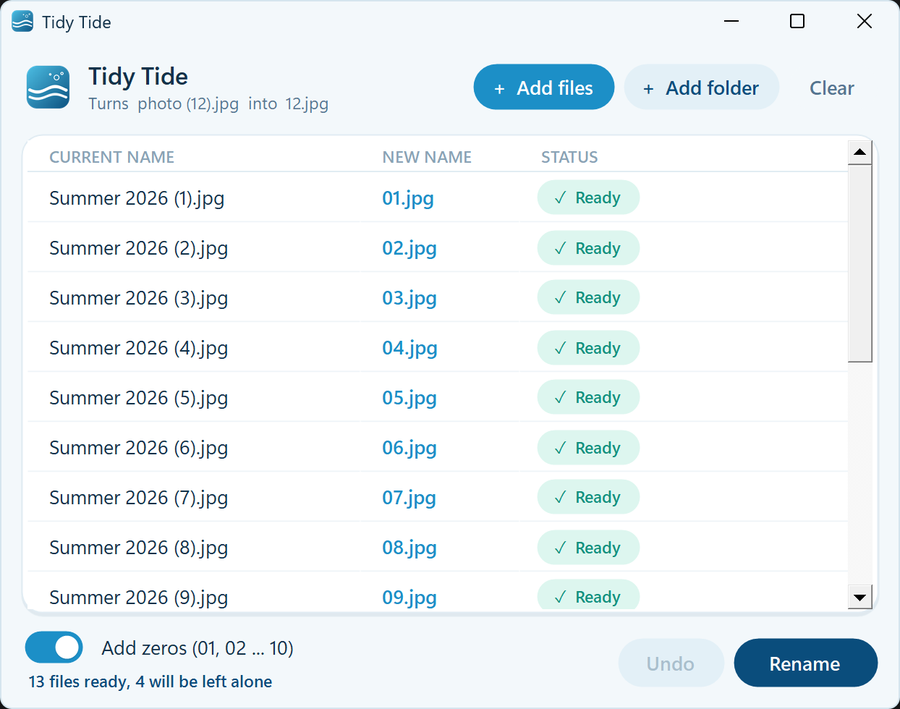
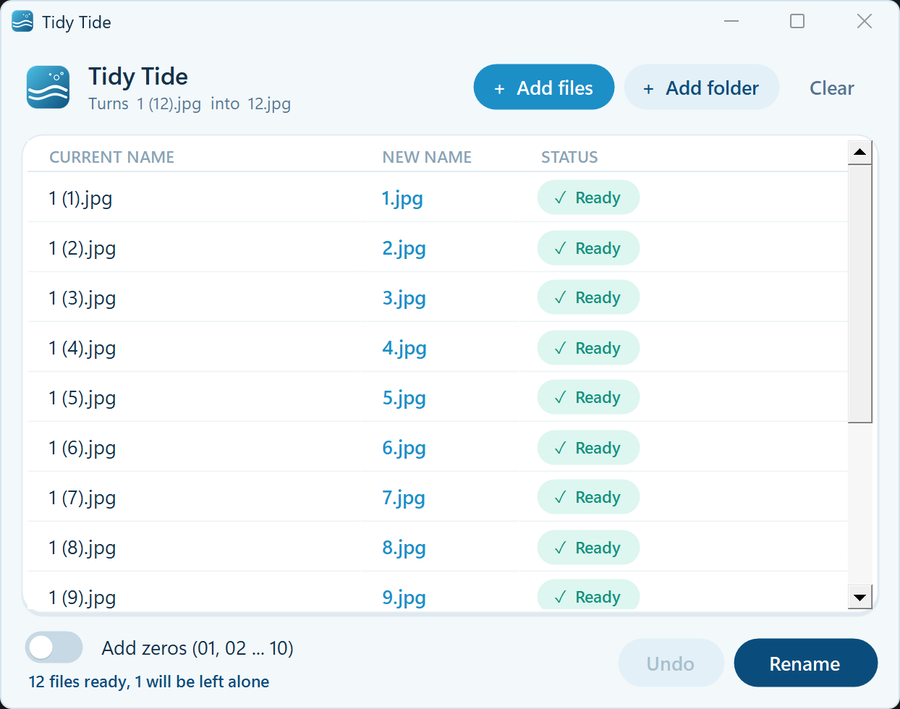
Use the real Windows naming in examples: 1 (1).jpg becomes 1.jpg
When you select photos, press F2 and type 1, Windows names them 1 (1),
1 (2), 1 (3)... The website hero, text and demo, the README, the app
subtitle and the installer now use that example. The app already handled
it correctly (tested: 1 (1)..1 (12).jpg -> 1..12.jpg, Undo restores).
Screenshots retaken.

diff --git a/website/index.html b/website/index.html
@@ -4,9 +4,9 @@
 <meta charset="utf-8">
 <meta name="viewport" content="width=device-width, initial-scale=1">
 <title>Tidy Tide · tidy up (1) (2) (3) file names on Windows</title>
-<meta name="description" content="A small, free Windows app that turns photo (12).jpg into 12.jpg. Preview every change, rename in one click, undo if you need to.">
+<meta name="description" content="A small, free Windows app that turns 1 (1).jpg, 1 (2).jpg, 1 (3).jpg into 1.jpg, 2.jpg, 3.jpg. Preview every change, rename in one click, undo if you need to.">
 <meta property="og:title" content="Tidy Tide">
-<meta property="og:description" content="A small, free Windows app that turns photo (12).jpg into 12.jpg.">
+<meta property="og:description" content="A small, free Windows app that turns 1 (1).jpg, 1 (2).jpg into 1.jpg, 2.jpg.">
 <meta property="og:image" content="icon.png">
 <meta name="theme-color" content="#E9F8FD">
 <link rel="icon" href="favicon.ico" sizes="any">
@@ -247,8 +247,8 @@
 
     <div class="hero-body">
       <span class="badge"><span class="dot"></span>Free for Windows 10 &amp; 11</span>
-      <h1>Turn <span class="chip before">photo&nbsp;(12).jpg</span> into <span class="chip after">12.jpg</span></h1>
-      <p class="lede">A small, friendly app that tidies the (1) (2) (3) names Windows gives your files. Check the preview, rename them all in one click, and undo if you change your mind.</p>
+      <h1>Turn <span class="chip before">1&nbsp;(2).jpg</span> into <span class="chip after">2.jpg</span></h1>
+      <p class="lede">Rename a bunch of photos to <b>1</b> in Windows and you get 1&nbsp;(1), 1&nbsp;(2), 1&nbsp;(3)… This small, friendly app turns them into 1, 2, 3. Check the preview, rename them all in one click, and undo if you change your mind.</p>
       <div class="ctas">
         <a class="btn btn-primary" href="https://github.com/inomisay/TidyTide/archive/refs/heads/main.zip"><svg><use href="#i-down"/></svg>Download for Windows</a>
         <a class="btn btn-soft" href="https://github.com/inomisay/TidyTide"><svg><use href="#i-gh"/></svg>View on GitHub</a>
@@ -295,10 +295,10 @@
       <div class="center">
         <span class="eyebrow">What it does</span>
         <h2>One small job, done carefully</h2>
-        <p class="section-lede">Select a bunch of files in Windows and rename them all at once, and you get <code>photo (1)</code>, <code>photo (2)</code>, <code>photo (3)</code>… Tidy Tide turns them into plain <code>1</code>, <code>2</code>, <code>3</code>.</p>
+        <p class="section-lede">Select your photos in Windows, press <b>F2</b> and type <code>1</code>, and Windows names them <code>1 (1)</code>, <code>1 (2)</code>, <code>1 (3)</code>… Tidy Tide turns them into plain <code>1</code>, <code>2</code>, <code>3</code>.</p>
       </div>
       <div class="features">
-        <div class="card"><div class="ic t-sea"><svg viewBox="0 0 24 24" fill="none" stroke="currentColor" stroke-width="2.2" stroke-linecap="round" stroke-linejoin="round"><path d="M4 7h16M4 12h10M4 17h7"/></svg></div><h3>The number becomes the name</h3><p><code>photo (12).jpg</code> becomes <code>12.jpg</code>, and <code>(7).png</code> becomes <code>7.png</code>.</p></div>
+        <div class="card"><div class="ic t-sea"><svg viewBox="0 0 24 24" fill="none" stroke="currentColor" stroke-width="2.2" stroke-linecap="round" stroke-linejoin="round"><path d="M4 7h16M4 12h10M4 17h7"/></svg></div><h3>The number becomes the name</h3><p><code>1 (12).jpg</code> becomes <code>12.jpg</code>. Any name works: <code>photo (7).png</code> becomes <code>7.png</code>.</p></div>
         <div class="card"><div class="ic t-lilac"><svg viewBox="0 0 24 24" fill="none" stroke="currentColor" stroke-width="2.2" stroke-linecap="round" stroke-linejoin="round"><path d="M2 12s3.5-7 10-7 10 7 10 7-3.5 7-10 7S2 12 2 12z"/><circle cx="12" cy="12" r="3"/></svg></div><h3>Preview first</h3><p>You see every new name before anything changes. Nothing is renamed until you say so.</p></div>
         <div class="card"><div class="ic t-mint"><svg viewBox="0 0 24 24" fill="none" stroke="currentColor" stroke-width="2.2" stroke-linecap="round" stroke-linejoin="round"><path d="M9 14L4 9l5-5"/><path d="M4 9h10.5a5.5 5.5 0 0 1 0 11H11"/></svg></div><h3>Easy undo</h3><p>Changed your mind? One click puts the last rename back the way it was.</p></div>
         <div class="card"><div class="ic t-sun"><svg viewBox="0 0 24 24" fill="none" stroke="currentColor" stroke-width="2.2" stroke-linecap="round" stroke-linejoin="round"><path d="M3 6h4M3 12h4M3 18h4M11 6h10M11 12h10M11 18h10"/></svg></div><h3>Sorts the right way</h3><p>Optional zeros in front (<code>01</code>, <code>02</code> … <code>10</code>) so every app lists files in order.</p></div>
@@ -388,14 +388,14 @@
     // two files with the same new name, or a new name that already exists, are left alone.
     var folders = [
       { name: 'Holiday photos',
-        story: 'You selected your holiday photos and renamed them “Summer 2026”. Windows added a number in brackets to each one.',
-        files: ['Summer 2026 (1).jpg', 'Summer 2026 (2).jpg', 'Summer 2026 (3).jpg', 'Summer 2026 (4).jpg', 'Summer 2026 (10).jpg', 'Summer 2026 (11).jpg', 'Summer 2026 (12).jpg', 'cover photo.jpg'] },
+        story: 'You selected your holiday photos, pressed F2 and typed 1. Windows named them 1 (1), 1 (2), 1 (3) and so on.',
+        files: ['1 (1).jpg', '1 (2).jpg', '1 (3).jpg', '1 (4).jpg', '1 (10).jpg', '1 (11).jpg', '1 (12).jpg', 'cover photo.jpg'] },
       { name: 'Scanned pages',
         story: 'Five pages straight from the scanner. You just want them as 1 to 5.',
         files: ['Scan (1).pdf', 'Scan (2).pdf', 'Scan (3).pdf', 'Scan (4).pdf', 'Scan (5).pdf', 'Contract.docx'] },
       { name: 'Tricky folder',
         story: 'Some files can’t be renamed safely. Tidy Tide leaves them alone and tells you why. It never overwrites anything.',
-        files: ['Cat (1).png', 'Beach (2).jpg', 'Dog (2).jpg', 'Notes (3).txt', 'Party (4).jpg', '3.txt', 'photo 5.jpg', 'Copy of report.docx'] }
+        files: ['1 (1).jpg', '1 (2).jpg', '1 (3).jpg', '1 (4).jpg', 'beach (4).jpg', '1 (5).jpg', '5.jpg', 'notes.txt'] }
     ];
     var tints = ['t-sea', 't-lilac', 't-mint', 't-sun', 't-coral'];
     var imgExt = /\.(jpe?g|png|gif|webp|heic)$/i;

diff --git a/README.md b/README.md
@@ -4,7 +4,7 @@
 
 <h1 align="center">Tidy Tide</h1>
 
-<p align="center">A small Windows app that turns <code>photo (12).jpg</code> into <code>12.jpg</code>.</p>
+<p align="center">A small Windows app that turns <code>1 (1).jpg</code>, <code>1 (2).jpg</code> … into <code>1.jpg</code>, <code>2.jpg</code> …</p>
 
 <p align="center">
   <a href="https://tidytide.vercel.app"><b>Website</b></a> ·
@@ -15,12 +15,12 @@
 
 ---
 
-When you select a bunch of files in Windows and rename them all at once, Windows names them `photo (1)`, `photo (2)`, `photo (3)` and so on. If you just want `1`, `2`, `3`, you end up fixing every name by hand. Tidy Tide does that for you.
+When you select a bunch of photos in Windows, press **F2** and type `1`, Windows names them `1 (1)`, `1 (2)`, `1 (3)` and so on. If you just want `1`, `2`, `3`, you end up fixing every name by hand. Tidy Tide does that for you.
 
 Drop the files in and check the preview. Then press **Rename**. If something looks wrong, press **Undo**.
 
 <p align="center">
-  <img src="assets/screenshots/app.png" width="560" alt="Tidy Tide showing a preview: Summer 2026 (1).jpg becomes 01.jpg, Summer 2026 (2).jpg becomes 02.jpg, and so on, each marked Ready">
+  <img src="assets/screenshots/app.png" width="560" alt="Tidy Tide showing a preview: 1 (1).jpg becomes 1.jpg, 1 (2).jpg becomes 2.jpg, and so on, each marked Ready">
 </p>
 
 ## How it works
@@ -32,7 +32,7 @@ Drop the files in and check the preview. Then press **Rename**. If something loo
    - **Same number twice**: left alone, because two files would get the same new name.
    - **Name already taken**: left alone, because a file with the new name already exists.
 
-   <img src="assets/screenshots/app-statuses.png" width="480" alt="Tidy Tide list showing Ready files next to files marked Same number twice and No (number)">
+   <img src="assets/screenshots/app-statuses.png" width="480" alt="Tidy Tide list: 1 (1).jpg to 1 (3).jpg are Ready; 1 (4).jpg and beach (4).jpg are Same number twice; 1 (5).jpg is Name already taken because 5.jpg exists; notes.txt has No (number)">
 3. **Press Rename.** Only the files marked Ready are renamed. Nothing is ever overwritten.
 4. **Changed your mind?** Press **Undo** to put the names back.
 
@@ -40,7 +40,7 @@ Tick **Add zeros in front** to get `01`, `02` … `12` instead of `1`, `2` … `
 
 ## What it does
 
-- Takes the number in the brackets and makes it the whole name: `photo (12).jpg` → `12.jpg`, `(7).png` → `7.png`
+- Takes the number in the brackets and makes it the whole name: `1 (12).jpg` → `12.jpg`. Any name works: `photo (7).png` → `7.png`, `(3).png` → `3.png`
 - Shows every change before it happens
 - Can add zeros in front (`01`, `02` … `10`) so every app sorts the files in the right order
 - Leaves a file alone if it has no number in brackets, if two files would end up with the same name, or if the new name is already taken. It never overwrites anything.
